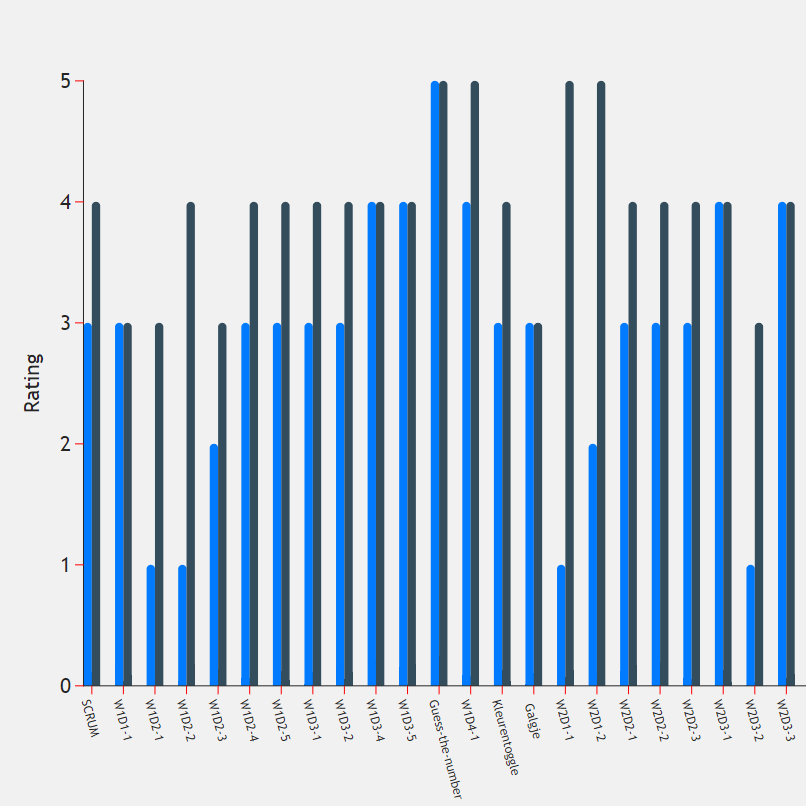
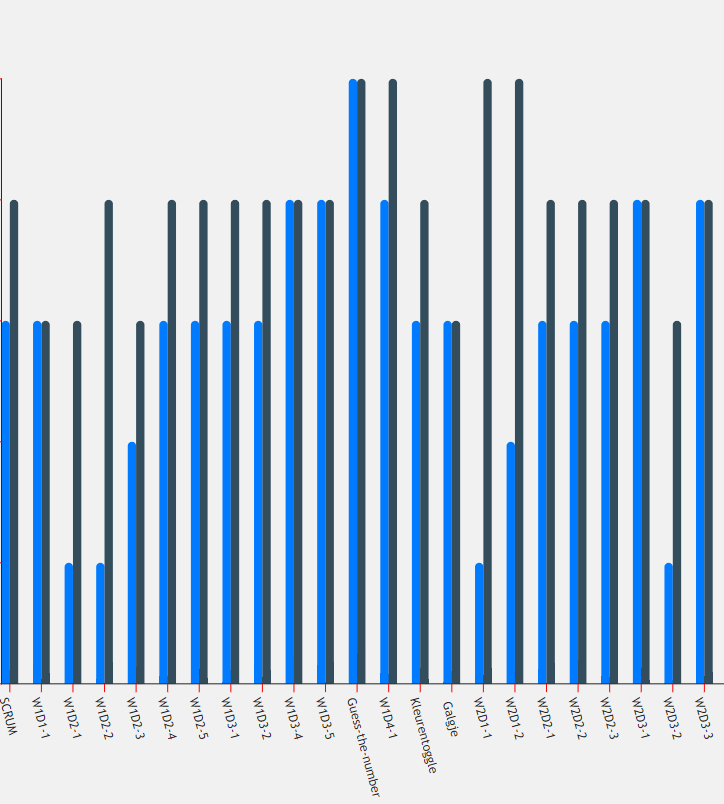
minor changes to css & UI | fixed react conditionals on line chart | added user friendly tip to settingsModal

diff --git a/src/03_components/Charts/BarContainer.js b/src/03_components/Charts/BarContainer.js
@@ -8,7 +8,6 @@ import {
   VictoryLegend,
 } from "victory";
 import Copyright from "../Copyright/Copyright";
-import SettingsModal from "../SettingsModal/SettingsModal";
 import { useSelector } from "react-redux";
 
 function ChartContainer() {
@@ -142,16 +141,18 @@ function ChartContainer() {
   const { ratingData, difficultyData } = renderAxisData();
 
   return (
-    <div className="chartContainer">
+    <div className="mainContainer">
       <div className="chartdisplay">
         {ratingData === false && difficultyData === false && (
-          <span className="NothingSelected">Please choose a student</span>
+          <div className="NothingSelected">
+            <i class="fas fa-arrow-up"></i>
+            <span>Please choose a student</span>
+          </div>
         )}
 
         <VictoryChart
-          height={190}
+          height={205}
           padding={{ top: 10, bottom: 35, left: 20, right: 20 }}
-          width={460}
         >
           {ratingData !== false && difficultyData !== false && (
             <VictoryGroup offset={2}>
@@ -197,26 +198,20 @@ function ChartContainer() {
           />
 
           <VictoryLegend
-            padding={80}
-            x={180}
-            y={180}
+            x={190}
+            y={193}
+            gutter={10}
             orientation="horizontal"
-            gutter={15}
             colorScale={["#007bff", "#334d5c"]}
             data={[
-              { name: "Difficulty", labels: { fontSize: 7 } },
-              { name: "Rating", labels: { fontSize: 7 } },
+              { name: "Difficulty", labels: { fontSize: 5 } },
+              { name: "Rating", labels: { fontSize: 5 } },
             ]}
           />
         </VictoryChart>
       </div>
-      <SettingsModal />
       <Copyright />
     </div>
   );
 }
 export default ChartContainer;
-//LINE CHART DISPLAY: ALL USERS CHECK AVERAGE + PER OPDRACHT X AXIS NAMEN
-
-//TO DO: ADD ROUTE ON NAME ( &OPTION )
-// BONUS: Profile template for students + Tabel overzicht

diff --git a/src/03_components/Charts/LineContainer.js b/src/03_components/Charts/LineContainer.js
@@ -9,7 +9,6 @@ import {
   VictoryVoronoiContainer,
 } from "victory";
 import Copyright from "../Copyright/Copyright";
-import SettingsModal from "../SettingsModal/SettingsModal";
 import { useSelector } from "react-redux";
 
 function LineContainer() {
@@ -142,12 +141,18 @@ function LineContainer() {
[1 lines of base64/hex data omitted]
   const { ratingData, difficultyData } = renderAxisData();
   return (
-    <div className="chartContainer">
+    <div className="mainContainer">
       <div className="chartdisplay">
+        {ratingData === false && difficultyData === false && (
+          <div className="NothingSelected">
+            <i class="fas fa-arrow-up"></i>
+            <span>Please choose a student</span>
+          </div>
+        )}
+
         <VictoryChart
-          height={190}
+          height={205}
           padding={{ top: 10, bottom: 35, left: 20, right: 20 }}
-          width={460}
           containerComponent={<VictoryVoronoiContainer />}
         >
           <VictoryGroup
@@ -197,20 +202,18 @@ function LineContainer() {
             tickFormat={[0, 1.0, 2.0, 3.0, 4.0, 5.0]}
           />
           <VictoryLegend
-            padding={80}
-            x={180}
-            y={180}
+            x={190}
+            y={193}
+            gutter={10}
             orientation="horizontal"
-            gutter={15}
             colorScale={["#007bff", "#334d5c"]}
             data={[
-              { name: "Difficulty", labels: { fontSize: 7 } },
-              { name: "Rating", labels: { fontSize: 7 } },
+              { name: "Difficulty", labels: { fontSize: 5 } },
+              { name: "Rating", labels: { fontSize: 5 } },
             ]}
           />
         </VictoryChart>
       </div>
-      <SettingsModal />
       <Copyright />
     </div>
   );

diff --git a/src/02_reducers/displayReducer.js b/src/02_reducers/displayReducer.js
@@ -2,19 +2,24 @@ import rawData from "../00_store/studentData.json";
 
 const getNames = [...new Set(rawData.map((item) => item.name))];
 
-const initDisplayState = getNames.map((name, index) =>
-  name === "Evelyn"
-    ? {
-        studentName: name,
-        id: index,
-        checked: true,
-      }
-    : {
-        studentName: name,
-        id: index,
-        checked: false,
-      }
-);
+// ============ NOTE: USE TO DEFAULT RENDER CHART AT START ===========
+// const initDisplayState = getNames.map((name, index) =>
+//   name === "Evelyn"
+//     ? {
+//         studentName: name,
+//         id: index,
+//         checked: true,
+//       }
+//     : {
+//         studentName: name,
+//         id: index,
+//         checked: false,
+//       }
+// );
+
+const initDisplayState = getNames.map((name, index) => {
+  return { studentName: name, id: index, checked: false };
+});
 
 const displayReducer = (state = initDisplayState, action) => {
   switch (action.type) {

diff --git a/src/03_components/App/App.js b/src/03_components/App/App.js
@@ -14,7 +14,7 @@ class App extends Component {
           <HeaderNavBar />
           <Switch>
             <React.Fragment>
-              <Route exact path="/home" component={Homescreen} />
+              <Route exact path="/home" component={Homescreen}></Route>
               <Route exact path="/home/bar" component={BarContainer}></Route>
               <Route exact path="/home/line" component={LineContainer}></Route>
               <Route exact path="/users" component={LineContainer}></Route>
@@ -28,3 +28,7 @@ class App extends Component {
   }
 }
 export default App;
+
+//LINE CHART DISPLAY: ALL USERS CHECK AVERAGE + PER OPDRACHT X AXIS NAMEN
+//TO DO: ADD ROUTE ON NAME ( &OPTION )
+// BONUS: Profile template for students + Tabel overzicht

diff --git a/src/03_components/HeaderNavBar/Header.js b/src/03_components/HeaderNavBar/Header.js
@@ -1,5 +1,6 @@
 import React from "react";
 import { NavLink, useLocation } from "react-router-dom";
+import SettingsModal from "../SettingsModal/SettingsModal";
 import "./Header.css";
 
 export default function HeaderBar() {
@@ -46,7 +47,11 @@ export default function HeaderBar() {
           </NavLink>
         </div>
 
-        <span class="navbar-text navbar-center">Student Dashboard</span>
+        {currentLocation.pathname.includes("/home/") ? (
+          <SettingsModal />
+        ) : (
+          <span class="navbar-text navbar-center">Student Dashboard</span>
+        )}
 
         {currentLocation.pathname.includes("/home/") && (
           <div className="chartSwitch">

diff --git a/src/03_components/SettingsModal/SettingsModal.js b/src/03_components/SettingsModal/SettingsModal.js
@@ -49,7 +49,7 @@ export default function SettingsModal() {
 
   return (
     <div>
-      <button className="btn btn-dark OptionBtn btn-lg" onClick={openModal}>
+      <button className="btn btn-secondary navbar-center" onClick={openModal}>
         Settings <i className="fas fa-sliders-h"></i>
       </button>
       <Modal
@@ -81,6 +81,9 @@ export default function SettingsModal() {
           </div>
         </div>
 
+        <span className="settingsTip">
+          Reminder: You can switch between charts in the top right corner!
+        </span>
         <button
           className="Modal__Close btn btn-secondary BackBtn"
           onClick={closeModal}

diff --git a/src/03_components/App/App.css b/src/03_components/App/App.css
@@ -7,19 +7,30 @@ body {
   height: 100vh;
 }
 
-.chartContainer {
+.mainContainer {
+  height: 100%;
+  position: relative;
   background-color: #f1f1f1;
-}
-
-.chartdisplay {
-  height: 93vh;
-  width: 100%;
 }
 
 .NothingSelected {
   position: absolute;
-  font-size: 50px;
-  color: red;
-  top: 50%;
-  left: 50%;
+  top: 5%;
+  left: 27%;
+}
+
+.NothingSelected span{
+  font-weight: 600;
+  color: #343a40;
+  text-shadow: 3px 3px 4px white;
+  font-size: 5em;
+}
+
+.NothingSelected i {
+  position: relative;
+  font-size: 5em;
+  display: block;
+  text-align: center;
+  color: #007bff;
+  padding-bottom: 200px;
 }

diff --git a/src/03_components/SettingsModal/SettingsModal.css b/src/03_components/SettingsModal/SettingsModal.css
@@ -12,13 +12,6 @@
   font-size: 1.4em;
 }
 
-.OptionBtn {
-  position: absolute;
-  display: inline;
-  top: 8%;
-  right: 0.5%;
-}
-
 /* INSIDE MODAL */
 .settings {
   width: 500px;
@@ -30,8 +23,12 @@
 
 .BackBtn {
   position: relative;
-  left: 85%;
-  bottom: 8%;
+  left: 28%;
+}
+
+.settingsTip {
+  font-size: 10px;
+  vertical-align: bottom;
 }
 
 .setting__container {
@@ -40,7 +37,7 @@
 }
 
 .settings__names {
-   display: flex;
+  display: flex;
   flex-wrap: wrap;
 }
 

diff --git a/src/03_components/Copyright/Copyright.css b/src/03_components/Copyright/Copyright.css
@@ -1,24 +1,24 @@
 .copyright {
   position: absolute;
   display: inline;
-  top: 96%;
-  right: 0.5%;
   font-size: 15px;
+  bottom: 0%;
+  right: 0%;
+  opacity: 0.8;
+  padding-right: 5px;
 }
 .copyright a {
   color: #334d5c;
 }
 
 .copyright a:hover {
-  opacity: 0.7;
   text-decoration: none;
-  color: #557c92;
+  color: #040608;
 }
 
 .copyright i {
   font-size: 20px;
   border-radius: 50px;
   margin-left: 5px;
-  position: relative;
   top: 2px;
 }

diff --git a/src/03_components/ExerciseDropdown/ExerciseDropdown.js b/src/03_components/ExerciseDropdown/ExerciseDropdown.js
@@ -22,5 +22,7 @@ export default function ExerciseDropdown() {
     );
   });
 
+  console.log(ExerciseLinkButtons);
+
   return <div className="dropDown_Menu">bar</div>;
 }

diff --git a/src/03_components/HeaderNavBar/Header.css b/src/03_components/HeaderNavBar/Header.css
@@ -33,6 +33,6 @@
 
 .chartSwitch {
   position: absolute;
-  right: 0;
+  right: 1%;
   display: flex;
 }
